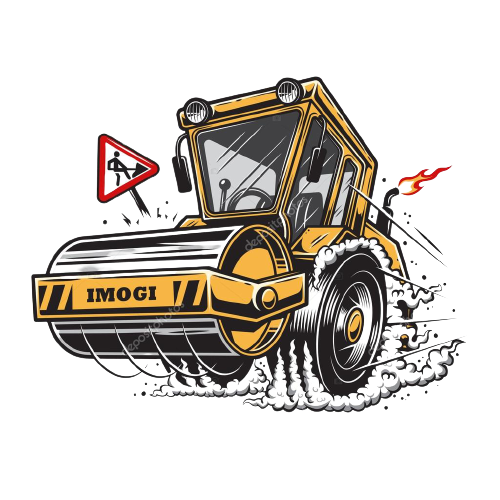
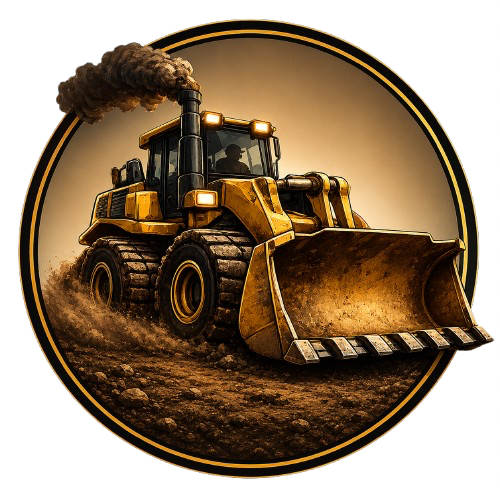
update

diff --git a/app/page.js b/app/page.js
@@ -1326,7 +1326,7 @@ export default function TapitasLeagueHomepage() {
       />
 
       {/* ===== HERO ===== */}
-      <section className="relative z-10 px-3 md:px-6 pb-5">
+      <section className="relative z-10 px-3 md:px-6 pb-10">
         <div
           className="relative isolate mb-10 overflow-hidden rounded-2xl md:rounded-[38px] border border-white/10"
           onTouchStart={handleTouchStart}